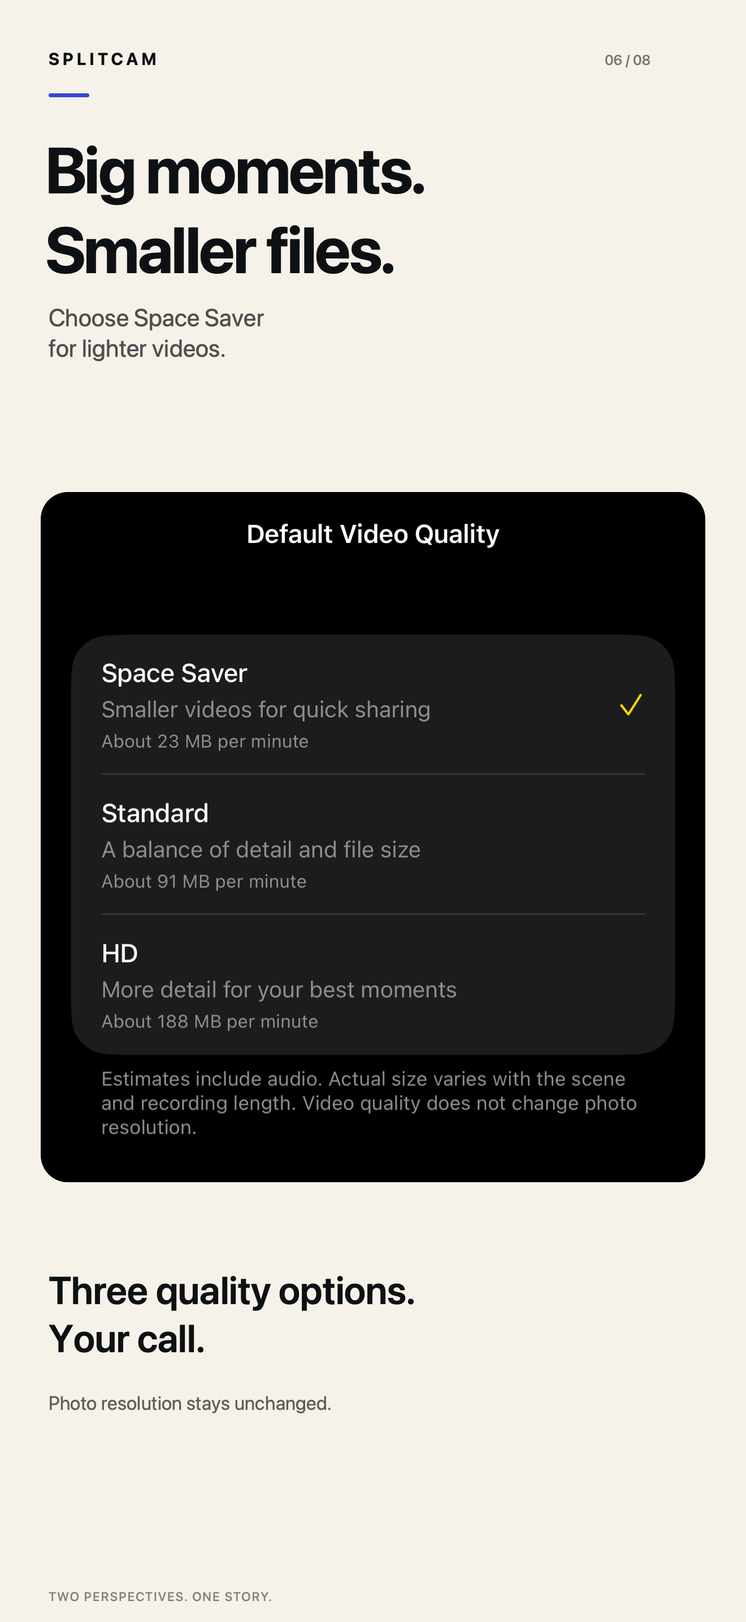
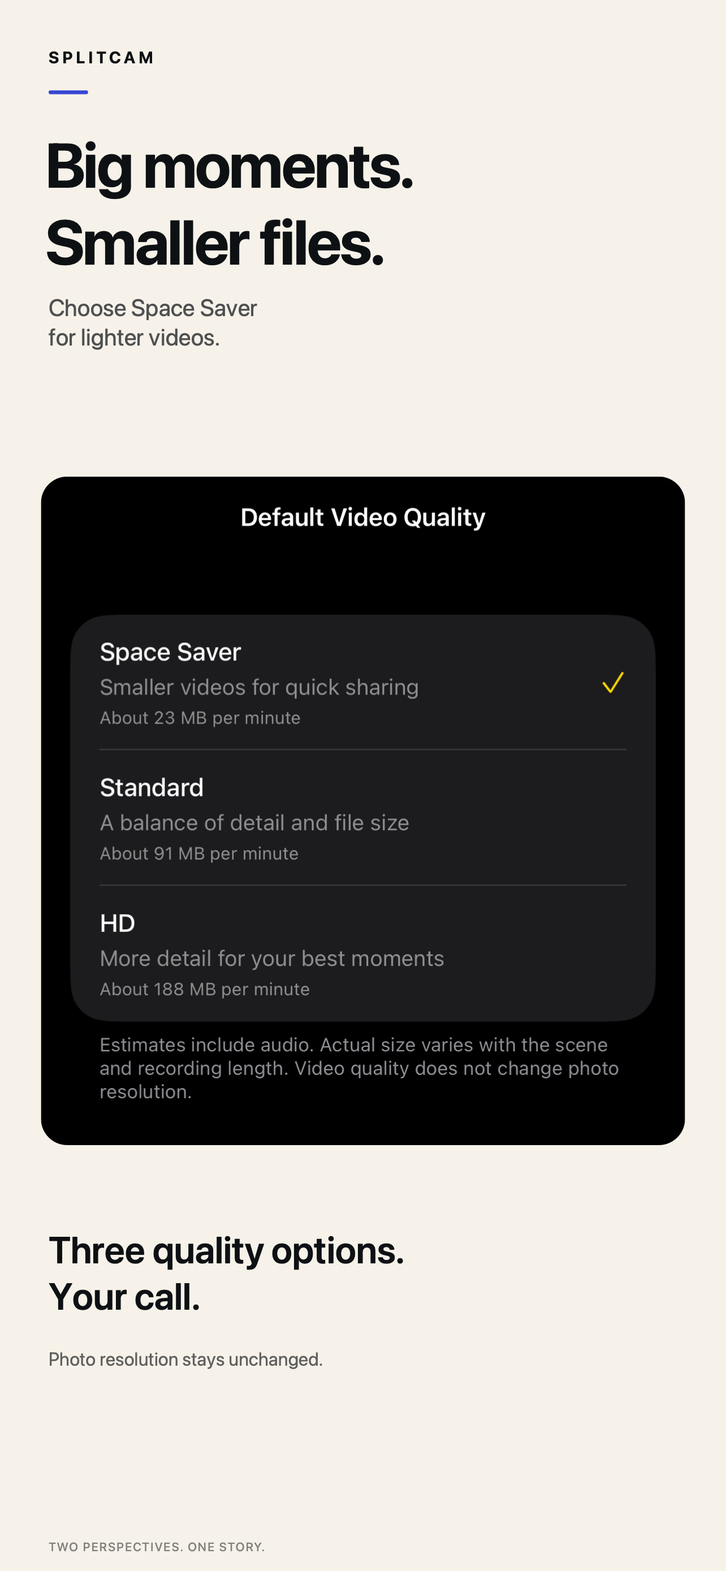
Fix ASO screenshot dimensions and diversify camera scenes

diff --git a/Tools/RenderASO.swift b/Tools/RenderASO.swift
@@ -4,11 +4,12 @@ import AppKit
 
 let root = URL(fileURLWithPath: FileManager.default.currentDirectoryPath)
 let base = root.appendingPathComponent("Metadata/ASO/2026-09")
-let canvas = CGSize(width: 1320, height: 2868)
+// Match the user's ASC iPhone 6.5-inch slot, not the 6.9-inch slot.
+let canvas = CGSize(width: 1284, height: 2778)
+let designCanvas = CGSize(width: 1320, height: 2868)
 let ink = NSColor(srgbRed: 0.055, green: 0.065, blue: 0.08, alpha: 1)
 let paper = NSColor(srgbRed: 0.965, green: 0.95, blue: 0.915, alpha: 1)
 let teal = NSColor(srgbRed: 0.32, green: 0.85, blue: 0.82, alpha: 1)
-let orange = NSColor(srgbRed: 1, green: 0.61, blue: 0.30, alpha: 1)
 
 struct Slide {
     let screen: String
@@ -86,8 +87,15 @@ for (languageIndex, language) in ["en", "zh-Hans"].enumerated() {
         let highlight = dark ? teal : NSColor(srgbRed: 0.21, green: 0.28, blue: 0.83, alpha: 1)
         let bitmap = render(size: canvas) {
             background.setFill(); NSBezierPath(rect: CGRect(origin: .zero, size: canvas)).fill()
+            // Uniform fitting preserves faces, phone proportions, and typography.
+            // Fill the tiny side gutters with the same background, never stretch.
+            NSGraphicsContext.saveGraphicsState()
+            let scale = min(canvas.width / designCanvas.width, canvas.height / designCanvas.height)
+            let transform = NSAffineTransform()
+            transform.translateX(by: (canvas.width - designCanvas.width * scale) / 2, yBy: (canvas.height - designCanvas.height * scale) / 2)
+            transform.scale(by: scale)
+            transform.concat()
             text("SPLITCAM", x: 86, y: 86, width: 850, size: 30, color: foreground, weight: .bold, tracking: 6)
-            text(String(format: "%02d / 08", index + 1), x: 1070, y: 91, width: 220, size: 25, color: foreground.withAlphaComponent(0.55), weight: .medium)
             rounded(CGRect(x: 86, y: 165, width: 72, height: 7), radius: 3, fill: highlight)
             text(slide.title[languageIndex], x: 80, y: 232, width: 1190, size: languageIndex == 1 ? 118 : 114, color: foreground, weight: .bold, tracking: -3)
             text(slide.detail[languageIndex], x: 86, y: 535, width: 1160, size: 43, color: foreground.withAlphaComponent(0.72), weight: .regular)
@@ -134,19 +142,21 @@ for (languageIndex, language) in ["en", "zh-Hans"].enumerated() {
                 drawPhone(base.appendingPathComponent("raw/\(language)/\(slide.screen).png"), at: phone)
             }
             text(languageIndex == 0 ? "TWO PERSPECTIVES. ONE STORY." : "双重视角，让故事更完整。", x: 86, y: 2810, width: 1160, size: 22, color: foreground.withAlphaComponent(0.5), weight: .medium, tracking: 2)
+            NSGraphicsContext.restoreGraphicsState()
         }
+        precondition(bitmap.pixelsWide == 1284 && bitmap.pixelsHigh == 2778 && !bitmap.hasAlpha, "Invalid ASC upload image")
         let output = base.appendingPathComponent("\(language)/\(String(format: "%02d", index + 1))-\(slide.screen).png")
         try bitmap.representation(using: .png, properties: [:])!.write(to: output)
         paths.append(output)
     }
     let contact = render(size: CGSize(width: 1440, height: 1630)) {
         paper.setFill(); NSBezierPath(rect: CGRect(x: 0, y: 0, width: 1440, height: 1630)).fill()
-        text(languageIndex == 0 ? "SplitCam / A fresh perspective" : "SplitCam / 全新双视角叙事", x: 28, y: 26, width: 1380, size: 28, color: ink, weight: .bold)
+        text(languageIndex == 0 ? "SplitCam / iPhone 6.5-inch / 1284 × 2778" : "SplitCam / iPhone 6.5 英寸 / 1284 × 2778", x: 28, y: 26, width: 1380, size: 28, color: ink, weight: .bold)
         for (i, path) in paths.enumerated() {
-            let rect = CGRect(x: CGFloat(24 + (i % 4) * 355), y: CGFloat(90 + (i / 4) * 764), width: 327, height: 710.7)
+            let rect = CGRect(x: CGFloat(24 + (i % 4) * 355), y: CGFloat(90 + (i / 4) * 764), width: 327, height: 327 * canvas.height / canvas.width)
             NSImage(contentsOf: path)!.draw(in: rect, from: .zero, operation: .sourceOver, fraction: 1, respectFlipped: true, hints: [.interpolation: NSImageInterpolation.high])
         }
     }
     try contact.representation(using: .png, properties: [:])!.write(to: base.appendingPathComponent("overview-\(language).png"))
 }
-print("Rendered 16 ASO boards and 2 overviews in \(base.path)")
+print("Rendered 16 opaque 1284 × 2778 ASO boards for iPhone 6.5-inch and 2 review-only overviews in \(base.path)")

diff --git a/Tools/ValidateASO.swift b/Tools/ValidateASO.swift
@@ -1,0 +1,73 @@
+// Run from the repository root: swift Tools/ValidateASO.swift
+import AppKit
+import Vision
+import CryptoKit
+
+let root = URL(fileURLWithPath: FileManager.default.currentDirectoryPath)
+let base = root.appendingPathComponent("Metadata/ASO/2026-09")
+let expected = ["01-split.png", "02-pip.png", "03-duet.png", "04-stack.png", "05-portrait.png", "06-quality.png", "07-settings.png", "08-icons.png"]
+
+func require(_ condition: @autoclosure () -> Bool, _ message: String) {
+    guard condition() else {
+        FileHandle.standardError.write(Data("FAIL: \(message)\n".utf8))
+        exit(1)
+    }
+}
+
+// This heuristic applies only to our colorful demo fixtures, not arbitrary user photos.
+func cameraFrameIsReady(_ path: URL) throws -> Bool {
+    guard let raw = NSBitmapImageRep(data: try Data(contentsOf: path)) else { return false }
+    var colorfulSamples = 0
+    for row in 0..<12 {
+        for column in 0..<12 {
+            let x = Int(Double(raw.pixelsWide) * (0.15 + Double(column) * 0.7 / 11))
+            let y = Int(Double(raw.pixelsHigh) * (0.3 + Double(row) * 0.4 / 11))
+            if let color = raw.colorAt(x: x, y: y)?.usingColorSpace(.sRGB) {
+                let channels = [color.redComponent, color.greenComponent, color.blueComponent]
+                if channels.max()! - channels.min()! > 0.05 && channels.max()! > 0.15 {
+                    colorfulSamples += 1
+                }
+            }
+        }
+    }
+    return colorfulSamples > 20
+}
+
+if CommandLine.arguments.count == 3 && CommandLine.arguments[1] == "--frame" {
+    exit(try cameraFrameIsReady(URL(fileURLWithPath: CommandLine.arguments[2])) ? 0 : 1)
+}
+
+for language in ["en", "zh-Hans"] {
+    for screen in ["split", "pip", "duet", "stack", "portrait"] {
+        let path = base.appendingPathComponent("raw/\(language)/\(screen).png")
+        let ready = try cameraFrameIsReady(path)
+        require(ready, "Camera content may be blank / not ready: raw/\(language)/\(screen).png")
+    }
+    let directory = base.appendingPathComponent(language)
+    let files = try FileManager.default.contentsOfDirectory(at: directory, includingPropertiesForKeys: nil)
+        .filter { $0.pathExtension.lowercased() == "png" }.map(\.lastPathComponent).sorted()
+    require(files == expected, "Unexpected upload files in \(language)")
+    for name in files {
+        let url = directory.appendingPathComponent(name)
+        let bitmap = NSBitmapImageRep(data: try Data(contentsOf: url))!
+        require(bitmap.pixelsWide == 1284 && bitmap.pixelsHigh == 2778, "Wrong 6.5-inch size: \(name)")
+        require(!bitmap.hasAlpha, "Alpha channel is not allowed: \(name)")
+        let cg = bitmap.cgImage!
+        require(cg.colorSpace?.name == CGColorSpace.sRGB, "Expected sRGB: \(name)")
+
+        // OCR the former page-counter location (Vision coordinates start bottom-left).
+        let request = VNRecognizeTextRequest()
+        request.recognitionLevel = .accurate
+        request.recognitionLanguages = ["en-US"]
+        request.regionOfInterest = CGRect(x: 0.72, y: 0.91, width: 0.28, height: 0.09)
+        try VNImageRequestHandler(cgImage: cg).perform([request])
+        let text = (request.results ?? []).compactMap { $0.topCandidates(1).first?.string }.joined(separator: " ")
+        require(text.range(of: #"\b0?[1-8]\s*[/／]\s*0?8\b"#, options: .regularExpression) == nil, "Page counter found: \(language)/\(name): \(text)")
+        print("PASS \(language)/\(name): 1284 × 2778, opaque sRGB, no page counter")
+    }
+}
+
+let portraits = ["source/demo-front.png", "source/scenes/pip-front.png", "source/scenes/duet-front.png", "source/scenes/stack-front.png", "source/scenes/portrait-front.png"]
+let hashes = try portraits.map { SHA256.hash(data: try Data(contentsOf: base.appendingPathComponent($0))) }
+require(Set(hashes).count == 5, "The five camera scenes must use distinct portrait photos")
+print("PASS five distinct portrait sources. Manually review outfits, expressions, composition, and UI before upload.")

diff --git a/Metadata/ASO/2026-09/strategy.md b/Metadata/ASO/2026-09/strategy.md
@@ -8,27 +8,27 @@
 
 优先服务旅行记录、日常 vlog、反应视频与合拍创作者。前三张依次回答：它做什么、拍出来有什么不同、还能怎样创作。低画质与图标是后半段的实用理由，不占据首屏。
 
-视觉主题为「双视角旅行手记」：墨黑、暖白交替，湖水青和日落橙只用于强调。大标题、真实操作界面和一条细分割线构成统一语言。禁止堆叠小卖点、虚构评分、排行榜、限时折扣或未支持的功能。
+视觉主题为「双视角生活手记」：墨黑、暖白交替，大标题、真实操作界面和一条细分割线构成统一语言。人物与环境覆盖旅行、咖啡、宠物和海边，不反复使用同一服装与表情。禁止堆叠小卖点、虚构评分、排行榜、限时折扣或未支持的功能。
 
 ## 八张顺序与双语文案
 
 | 顺序 | 中文标题 / 副标题 | English headline / supporting copy | 画面与验证点 |
 | --- | --- | --- | --- |
 | 01 核心价值 | 拍下眼前，\n也拍下自己。 / 前后双摄，同步记录照片与视频。 | Your view.\nAnd you. / Capture photos and videos with both cameras. | 正面展示左右分屏相机，左侧湖景、右侧自拍。用户首先看到双视角作品与拍摄入口。 |
-| 02 画中画 | 精彩现场，\n还有你的表情。 / 自由调整小窗口，让故事更完整。 | The moment.\nYour reaction. / Move and resize your picture-in-picture view. | 完整湖景与人物小窗，保留相机真实界面。明确标记「画中画视频需 Pro / PiP video requires Pro」。 |
-| 03 合拍 | 灵感有了，\n拍下你的回应。 / 导入照片或视频，开始你的合拍。 | Add your side\nto the story. / Import a photo or video. Create alongside it. | 使用真实合拍视图，标记「视频合拍需 Pro / Video duet requires Pro」。示例为静态导入照片，不伪装成正在播放的视频。 |
-| 04 布局 | 换个布局，\n换种表达。 / 左右、上下、画中画，随心构图。 | A layout for\nevery story. / Side by side. Stacked. Picture in picture. | 上下分屏为主，与第 1、2 张共同展示三种真实布局；不制作不存在的界面按钮。 |
-| 05 清爽预览 | 让画面，\n多一点空间。 / 9:16 一键收起画幅与画质控制条。 | More room\nfor the moment. / Hide frame and quality controls in 9:16. | 使用真实 9:16 收起状态截图；不声称全部控件消失，也不暗示无边界全屏录像。 |
+| 02 画中画 | 精彩现场，\n还有你的表情。 / 自由调整小窗口，让故事更完整。 | The moment.\nYour reaction. / Move and resize your picture-in-picture view. | 完整湖景与人物小窗：紫色外套、短卷发、惊喜神态，与首张橙衣微笑区分。明确标记「画中画视频需 Pro / PiP video requires Pro」。 |
+| 03 合拍 | 灵感有了，\n拍下你的回应。 / 导入照片或视频，开始你的合拍。 | Add your side\nto the story. / Import a photo or video. Create alongside it. | 咖啡拉花照片 + 米白针织衫人物的轻松回应。使用真实合拍视图，标记「视频合拍需 Pro / Video duet requires Pro」。示例为静态导入照片，不伪装成正在播放的视频。 |
+| 04 布局 | 换个布局，\n换种表达。 / 左右、上下、画中画，随心构图。 | A layout for\nevery story. / Side by side. Stacked. Picture in picture. | 草坪金毛与穿鼠尾草绿 T 恤、开怀大笑的男性，上下分屏。不制作不存在的界面按钮。 |
+| 05 清爽预览 | 让画面，\n多一点空间。 / 9:16 一键收起画幅与画质控制条。 | More room\nfor the moment. / Hide frame and quality controls in 9:16. | 海岸与蓝白条纹衫人物，平静自然的神态。使用真实 9:16 收起状态截图；不声称全部控件消失，也不暗示无边界全屏录像。 |
 | 06 小体积 | 精彩照录，\n文件更轻。 / 新增节省空间画质，分享更轻松。 | Big moments.\nSmaller files. / Choose Space Saver for lighter videos. | 设置内真实三档画质页，以节省空间为选中项。估算大小保留“约”和实际内容影响说明，不承诺固定压缩比例。此功能对所有用户开放。 |
 | 07 记忆设置 | 熟悉的设置，\n打开就接着拍。 / 记住拍摄模式、画幅、布局与镜像。 | Pick up where\nyou left off. / Keep your capture preferences ready to go. | 设置内记忆布局开关，展示真实偏好页。文案不包含未实现的镜头缩放记忆。 |
 | 08 个性图标 | 镜头之外，\n也有你的风格。 / 多款 App 图标，换上你的最爱。 | Your camera.\nYour signature. / Find an app icon that feels like you. | 重点展示四款新 Pro 图标，辅以真实图标列表。标记「部分图标需 Pro / Selected icons require Pro」。 |
 
 ## 版式与输出
 
-- 每张 1320 × 2868，sRGB、不带透明通道；中文与英文分别输出。此项目仅支持 iPhone，不生成与产品不符的 iPad 截图。
-- 顶部保留品牌名与序号，以两行标题建立连续阅读节奏。每张只保留一个主张、一句副标题。
+- 当前上传成图每张 **1284 × 2778**，对应用户 ASC 的 **iPhone 6.5 英寸**栏，sRGB、不带透明通道；中文与英文分别输出。初版 1320 × 2868 对应 6.9 英寸，不能直接放入截图所示的 6.5 英寸栏。本次已替换同名成图，旧版可从 Git 历史恢复。
+- 顶部只保留品牌名，不展示 1/8、01/08 等页码。排序编号仅保留在文件名中，方便上传。每张只保留一个主张、一句副标题。
 - 主体使用真实模拟器截图，控制名称、位置和状态均来自当前 SwiftUI 实现。第 6、7 张放大原生页面的相关区域，提升画质选项与偏好设置的可读性；第 8 张集中展示四款新图标。照片为专门生成的演示素材，不宣称是真机拍摄样张。
-- 黑色和暖白画布交替；图标页可使用新图标素材组成视觉焦点。界面保持清晰，避免过度透视或大幅倾斜。
+- 黑色和暖白画布交替；图标页可使用新图标素材组成视觉焦点。原始 UI 截图保持 1320 × 2868，通过等比缩放排入 1284 × 2778 成图，不把人脸、图标或字体拉伸。界面保持清晰，避免过度透视或大幅倾斜。
 - 方案图不显示价格。涉及 Pro 的能力就近标记，不把免费功能包装成 Pro 权益。
 
 ## ASO 上线与实验计划
@@ -39,9 +39,12 @@
 
 ## 官方规格与来源
 
-- [Apple 截图规格](https://developer.apple.com/help/app-store-connect/reference/app-information/screenshot-specifications/)：支持 1–10 张，此方案使用 8 张；6.9 英寸规格包含 1320 × 2868，图片不能包含透明通道。
+- [Apple 截图规格](https://developer.apple.com/help/app-store-connect/reference/app-information/screenshot-specifications/)：支持 1–10 张，此方案使用 8 张；6.5 英寸竖图接受 1284 × 2778 或 1242 × 2688，图片不能包含透明通道。以用户当前选中的上传栏为准。
 - [Apple 上传截图说明](https://developer.apple.com/help/app-store-connect/manage-app-information/upload-app-previews-and-screenshots/)：最终替换应在对应语言和版本中执行。
-- `source/demo-front.png`、`source/demo-back.png`：内置 imagegen 生成的示例照片，提示词见 `source/prompts.md`。
+- `source/demo-front.png`、`source/demo-back.png`：首张保留的旅行照片，提示词见 `source/prompts.md`。
+- `source/scenes/`：内置 imagegen 新生成的不同服装、表情及配对环境，提示词见 `source/scene-prompts.md`。各场景先放入真实 App 再截图，不在截图上覆盖绘制人物。
 - `raw/`：专用 iPhone 模拟器的原生页面截图。测试路线只在 Debug 模拟器构建中存在，发布版不会显示演示照片。
 
-复现命令与验证结果见 `../../Design/QA/verification.md`。构图渲染器为 `Tools/RenderASO.swift`。
+复现命令与验证结果见 `../../Design/QA/verification.md`。先用 `bash Tools/CaptureASO.sh <专用模拟器 UUID>` 截取前五个场景，再用 `swift Tools/RenderASO.swift` 排版，最后运行 `swift Tools/ValidateASO.swift` 检查所有上传图。
+
+**上传时仅选择 `en/` 或 `zh-Hans/` 目录内的 8 张 PNG。`overview-*.png` 是审核联系表，尺寸不同，不可作为商店截图上传；`raw/`、`source/` 也不是上传目录。**

diff --git a/Metadata/ASO/2026-09/source/scene-prompts.md b/Metadata/ASO/2026-09/source/scene-prompts.md
@@ -1,0 +1,33 @@
+# ASO 1.8 revised scene prompts
+
+Built-in image generation; generated demo photography, not physical-device capture claims. Original orange-jacket travel pair is retained only for slide 1. Each remaining camera slide uses a dedicated front-camera photo. User requested varied outfits and expressions.
+
+## pip-front
+
+Use case: photorealistic-natural. Asset type: illustrative camera input for real SplitCam App Store screenshots. Natural candid smartphone photography, portrait 3:4 composition. Real skin and fabric texture, believable light, unposed everyday feeling. No text, no logo, no watermark, no app UI, no borders, no collage. Front-camera selfie, eye-level medium close-up, head and shoulders fully visible, face near center with generous space above head and both sides for flexible cropping. Hands and phone are outside frame. An adult Black woman with short natural curls wearing a lilac lightweight hiking windbreaker at an alpine lake. She has a spontaneous delighted, slightly open-mouth smile and raised eyebrows, as if just seeing an unexpectedly beautiful view; joyful but not a theatrical shocked face. Soft afternoon daylight, softly defocused mountain vegetation behind her. This is a different person, outfit, and expression from an orange-jacket travel selfie.
+
+## duet-front
+
+Use case: photorealistic-natural. Asset type: illustrative camera input for real SplitCam App Store screenshots. Natural candid smartphone photography, portrait 3:4 composition. Real skin and fabric texture, believable light, unposed everyday feeling. No text, no logo, no watermark, no app UI, no borders, no collage. Front-camera selfie, eye-level medium close-up, head and shoulders fully visible, face near center with generous space above head and both sides for flexible cropping. Hands and phone are outside frame. An adult East Asian woman with a chin-length dark bob, wearing a cream cable-knit sweater in a cozy cafe. A playful curious expression, one eyebrow very slightly raised, small asymmetric amused smile, looking toward the camera as she reacts to coffee art. Warm window light on natural skin, blurred neutral cafe interior and green plants behind her. No coffee cup or hands in foreground.
+
+## duet-back
+
+Use case: photorealistic-natural. Asset type: illustrative camera input for real SplitCam App Store screenshots. Natural candid smartphone photography, portrait 3:4 composition. Real skin and fabric texture, believable light, unposed everyday feeling. No text, no logo, no watermark, no app UI, no borders, no collage. A close-up smartphone photograph of beautiful swan latte art in a ceramic off-white coffee cup on a honey-colored cafe table, beside a simple croissant on a small plate. The swan and cup centered and entirely visible with breathing room for a narrow split-screen crop. Soft side window light, natural coffee foam and pastry texture, inviting calm everyday coffee break. No people, no hands, no writing on the cup.
+
+## stack-front
+
+Use case: photorealistic-natural. Asset type: illustrative camera input for real SplitCam App Store screenshots. Natural candid smartphone photography, portrait 3:4 composition. Real skin and fabric texture, believable light, unposed everyday feeling. No text, no logo, no watermark, no app UI, no borders, no collage. Front-camera selfie, eye-level medium close-up, head and shoulders fully visible, face near center with generous space above head and both sides for flexible cropping. Hands and phone are outside frame. An adult East Asian man in his early thirties with short tousled black hair wearing a sage-green cotton T-shirt outdoors in a leafy park. He is caught mid-laugh, eyes crinkling with a genuine open smile, head turned a few degrees while still mostly facing the camera. Sunlight filtered through leaves, softly blurred grass and trees behind him. Casual authentic weekend mood, not a fashion shoot.
+
+## stack-back
+
+Use case: photorealistic-natural. Asset type: illustrative camera input for real SplitCam App Store screenshots. Natural candid smartphone photography, portrait 3:4 composition. Real skin and fabric texture, believable light, unposed everyday feeling. No text, no logo, no watermark, no app UI, no borders, no collage. A friendly golden retriever on a sunlit grassy park lawn, sitting with its head tilted slightly and mouth open in a relaxed pant, a bright yellow tennis ball near its front paws. Low handheld smartphone viewpoint, dog centered with head and front paws visible and room around its body. Leafy trees softly out of focus, late afternoon dappled sunlight, natural fur detail. No people, no leash text, no clothing on dog.
+
+Final framing edit after native preview review: Use case: precise-object-edit. Input image: edit target, the golden retriever park photo. Change only framing and camera distance: recompose as a LANDSCAPE 3:2 smartphone photograph for a horizontal camera panel. Keep the same friendly golden retriever, tilted head and happy pant, same sunny grassy park, natural fur, yellow tennis ball, and candid lighting. Pull back so the entire head, ears, eyes, nose, tongue and front paws are visible. Center the dog, with its face around the middle of the image and comfortable grass/trees above, below and beside it. The complete head must remain inside the central 60% of image height. No portrait layout. No UI, no text, no watermark. This is a photographic camera input, not a screenshot.
+
+## portrait-front
+
+Use case: photorealistic-natural. Asset type: illustrative camera input for real SplitCam App Store screenshots. Natural candid smartphone photography, portrait 3:4 composition. Real skin and fabric texture, believable light, unposed everyday feeling. No text, no logo, no watermark, no app UI, no borders, no collage. Front-camera selfie, eye-level medium close-up, head and shoulders fully visible, face near center with generous space above head and both sides for flexible cropping. Hands and phone are outside frame. An adult woman with warm olive skin and shoulder-length wavy dark brown hair wearing a navy-and-white Breton striped cotton shirt by the seaside. Calm, content, closed-mouth half-smile, eyes looking just past the lens toward the horizon, a breeze moving a few strands of hair. Soft warm sunset light, blue sea and muted coastal path blurred behind her. Relaxed and reflective, not grinning, natural unretouched skin.
+
+## portrait-back
+
+Use case: photorealistic-natural. Asset type: illustrative camera input for real SplitCam App Store screenshots. Natural candid smartphone photography, portrait 3:4 composition. Real skin and fabric texture, believable light, unposed everyday feeling. No text, no logo, no watermark, no app UI, no borders, no collage. A scenic coastal view from a low stone promenade, blue-green ocean curling onto a small sandy cove, warm peach sunset light on white cliffs and a few simple Mediterranean houses in the distance. Clear calm travel photograph achievable on a phone, restrained natural colors, detailed foreground water, open horizon in upper third. No people, no text, no flags, no fantasy elements.

diff --git a/Metadata/Design/QA/verification.md b/Metadata/Design/QA/verification.md
@@ -4,7 +4,7 @@
 
 - Debug iOS Simulator build and Release iPhone build: checked with Xcode 26.2 SDK / iOS 26.3 simulator. Code signing disabled for local builds; no upload performed.
 - Four new alternate icons are present in both build configurations and in the compiled app's CFBundleAlternateIcons dictionary. Final artwork is 1024 × 1024 with no alpha channel.
-- All 16 ASO boards are 1320 × 2868 sRGB PNGs without alpha; English and Simplified Chinese overviews were visually reviewed.
+- ASO boards were initially 1320 × 2868 (6.9-inch). The revised upload set targets the user's ASC 6.5-inch slot at 1284 × 2778, without alpha. The original-size raw app screenshots are internal inputs, not upload files.
 - Localized string tables and Info.plist pass plutil; git diff --check passes.
 - Existing VideoComposer Swift 6 sendability warnings remain; this project builds in Swift 5 language mode.
 - Release binary does not contain the Debug simulator screenshot routes or demo file names. Demo images stay under Metadata, outside the app bundle.
@@ -50,3 +50,13 @@ swift Tools/RenderASO.swift
 ```
 
 The renderer places native screenshots and local icon assets on new editorial layouts. Photo imagery is generated demonstration content; it is not a claim about real device output quality. Crops in boards 6–7 only enlarge existing native interface regions.
+
+## Revised 6.5-inch upload set
+
+The revised first five scenes use different outfits, expressions and settings. `Tools/CaptureASO.sh` copies each selected generated photo pair to the dedicated simulator and captures the actual app views in both languages; no camera UI is painted over. `source/scene-prompts.md` records the prompts. App source and release version are unchanged.
+
+`Tools/RenderASO.swift` uniformly fits the design into 1284 × 2778. Page counters are removed; ordered filenames remain. Only the eight PNGs inside each language directory are for upload, not overviews or raw captures.
+
+Run `swift Tools/ValidateASO.swift` to verify dimensions, opacity, color space and absence of page counters, including OCR near the former page-counter position.
+
+Final revision checks passed on 2026-09-13: all 16 upload PNGs are 1284 × 2778 opaque sRGB, no page counters were detected, and all 10 camera captures contain the expected nonblank demo content. Both language overviews were visually inspected. A clipped pet portrait was reframed as a landscape source and recaptured; screenshots taken before the app finished launching were replaced. The capture script now checks demo-frame readiness and retries instead of trusting a fixed startup delay. OCR validation needs access to macOS Vision services. These checks do not claim an ASC upload was performed.

diff --git a/Metadata/ASO/1.8-audit.md b/Metadata/ASO/1.8-audit.md
@@ -60,7 +60,7 @@
 
 首三张继续回答“双摄是什么 → PiP 的效果 → 如何合拍”，不把小文件选项或 Pro 改版放到首张。图标是个性化补充，放最后合理。
 
-仍有两个优化空间：第 1、3 张的示例画面比较相似，后续可为合拍换一个更容易区分的真实使用场景；Pro 标注应在手机尺寸下继续检查可读性。它们不是本次重做整套图的理由，也不能据此推断转化率。
+首次评估发现第 1、3 张的示例画面比较相似。按后续用户反馈，已改为旅行、咖啡合拍、宠物与海岸等不同场景，人物服装和表情也已区分；成图改为 6.5 英寸栏的 1284 × 2778，并去掉图内页码。Pro 标注仍应在手机尺寸下检查可读性。这些调整不等于已经证实转化率提升。
 
 1. 上线前记录按地区、来源拆分的基线；不要只看总下载量。
 2. 1.8 发布后观察产品页访问到下载的转化，以及免费使用到 Pro 的转化。版本、文案、截图共同变化时，只能看整体表现，不能把变化归因于某个词。

diff --git a/Metadata/README.md b/Metadata/README.md
@@ -10,7 +10,7 @@
 | 推广文本 / Promotional Text | `promotional_text_en.txt` | `promotional_text_zh-Hans.txt` |
 | 截图 | `ASO/2026-09/en/01…08.png` | `ASO/2026-09/zh-Hans/01…08.png` |
 
-截图上传各语言目录内按序号排列的 8 张单图，不上传 overview、raw、source 或 Design/QA。正式替换前确认最终二进制与截图一致。新的推广文本提到 1.8 的功能，应随 1.8 可用时再展示，避免用户仍只能下载 1.7 时看到未上线功能。
+截图现为 **iPhone 6.5 英寸 / 1284 × 2778**，上传各语言目录内按文件名排序的 8 张单图；图内已去掉页码。**不要上传 overview、raw、source 或 Design/QA**，它们的尺寸和用途不同。正式替换前确认最终二进制与截图一致。新的推广文本提到 1.8 的功能，应随 1.8 可用时再展示，避免用户仍只能下载 1.7 时看到未上线功能。
 
 ## 需要确认的 ASO 建议
 

diff --git a/Metadata/Releases/1.8.md b/Metadata/Releases/1.8.md
@@ -17,7 +17,7 @@
 
 - 发布文案与字段对应关系：[Metadata 索引](../README.md)。
 - 描述、名称、关键词评估及待确认稿：[ASO 评估](../ASO/1.8-audit.md)。
-- 截图：[中文预览](../ASO/2026-09/overview-zh-Hans.png)、[英文预览](../ASO/2026-09/overview-en.png)。
+- 截图：[中文预览](../ASO/2026-09/overview-zh-Hans.png)、[英文预览](../ASO/2026-09/overview-en.png)。后续修订为 iPhone 6.5 英寸 1284 × 2778；移除页码、丰富人物服装和表情。预览联系表不可上传，上传对应语言目录中的 8 张单图。
 - 已完成的功能验证及其限制：[QA 记录](../Design/QA/verification.md)。该记录来自功能实现阶段，以下是本次版本整理的额外检查。
 
 ## 本次版本检查
